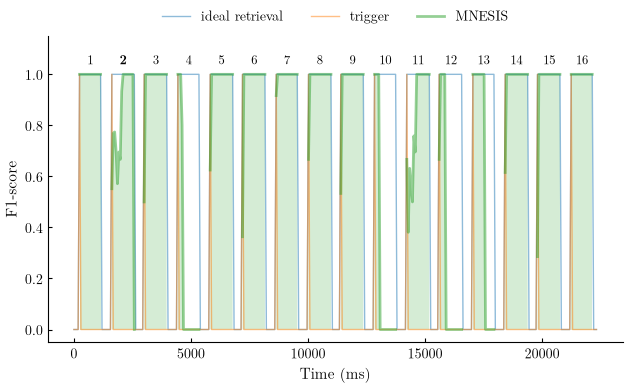
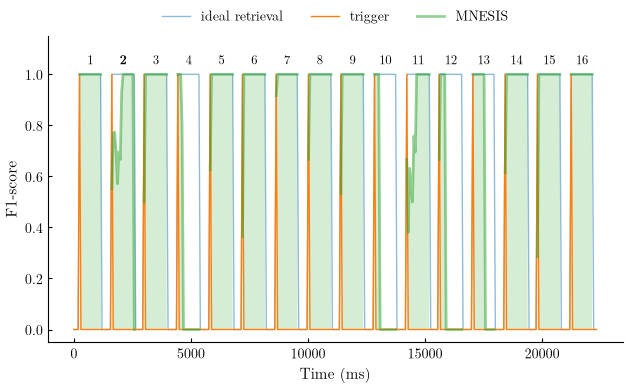
Update retrieval figures, adjust plot opacity, and reorganize LaTeX retriev[7D[K retrieval section
- Replace binary retrieval PDF/PNG and regenerate SVG with updated metadata[8D[K
metadata and new clip‑path/marker IDs.
- In the inference notebook, increase trigger line opacity (`alpha=1.`) and[3D[K
and streamline output: add PNG display of the SVG and remove redundant stre[4D[K
stream output.
- In the manuscript, insert `\input{figure_target}` earlier, add a new “Ret[4D[K
“Retrieval of the different spike patterns” subsection with `\input{figure_[15D[K
`\input{figure_retrieval}`, and incorporate expanded description of trainin[7D[K
training dynamics and cascade‑model analysis.
- Remove the duplicated retrieval subsection later in the file and comment [K
out the now‑redundant gradient‑training commentary.

diff --git a/tex/Perrinet26mnesis.tex b/tex/Perrinet26mnesis.tex
@@ -188,20 +188,33 @@ Our implementation is available at \url{https://github.com/SpikeAI/MNESIS}. The 
 %%%----------------------------------------------------------------- 
 \subsection{Training dynamics and results}
 %%%----------------------------------------------------------------- 
-%
-We trained the recurrent HD-SNN with surrogate-gradient BPTT~\citep{Neftci2019a}, starting from the analytical initialisation, on $M=16$ target patterns with $N=1024$ neurons, $D=41$ delays, $T=1000$ time steps, $p_A=1.6\times10^{-4}$, and $\beta=0.7$ (time constant $\tau \approx 2.8\,\mathrm{ms}$). Without the analytical initialisation, two characteristic failure modes arise during early training: episodes of complete silence, in which the network emits no spikes, and over-activation, in which nearly all neurons fire at every time step. Both are well-known pathological attractors of recurrent SNNs~\citep{Izhikevich2006,Voges10jpp}. The $F_1$ score is the harmonic mean of precision and recall, and maximising it therefore penalises both failure modes symmetrically: low precision corresponds to an over-active network and low recall to a silent one. The cosine learning-rate schedule~\citep{Hammouamri2023} helped guide the network away from these extremes towards a balanced, sparse-firing regime. 
-
-Remarkably, the analytical weight initialisation alone (Eq.~\ref{eq:init}) already achieves high $F_1$ scores before any gradient step, demonstrating that the closed-form Hebbian solution provides a strong baseline for recall on this benchmark. The Gram-matrix approximation $\mathbf{C}^\top\mathbf{C} \approx N \cdot D \cdot p_A \cdot \mathbf{I}$ reduces the pseudo-inverse to a simple cross-correlation (Eq.~\ref{eq:init}), but it does not preserve the accuracy. It assumes that every context contains the same number of spikes, whereas this number fluctuates around $N D p_A \approx 6.7$: with a normalisation by $N D p_A$, the sparsest contexts fall below threshold and the replay dies out ($F_1 \approx 0.12$ for the analytical initialisation), whereas a smaller normalisation makes it explode. The exact pseudo-inverse, whose weights adapt to the number of spikes of each context, is therefore used throughout ($F_1 \approx 0.80$); in the parameter scan, training from the approximation did not recover either ($F_1 \approx 0.001$, against $0.885$ with the pseudo-inverse). Gradient training, in contrast, left the replay unchanged. With the learning rates above, far below the nominal value of $1$ for Adadelta, the weights moved by at most $10^{-3}$ (a relative change of $2 \times 10^{-3}$ of their norm), whereas a perfect context exceeds the threshold by $\delta = 0.25$: not a single evoked spike changed, and the scores of the trained network were identical to those of the analytical initialisation, motif by motif and for each of $8$ realisations of the trigger window and of the spontaneous activity. The scores reported below are therefore those of the analytical solution, and their limits, analysed next, lie in the statistics of the motifs rather than in the optimisation.
-
-The mean $F_1$ score, however, hides a strong heterogeneity between motifs, which we analysed for the analytical initialisation, cued by a noisy realisation of the trigger window ($p_\mathrm{flip} = 0.01$) preceded by $50$ steps of spontaneous activity. Scored motif by motif, $9$ of the $M = 16$ motifs were replayed exactly, without a single false positive or false negative ($F_1 = 1$). This exceeds the value $F_1 \approx 0.990$ of Equation~\ref{eq:f1} for a noisy copy: the replay restores the frozen motif, not the noisy realisation that provided the trigger window. The other motifs failed in one of two ways, which correspond to the two ends of the distribution of the number $K$ of spikes in a context window.
-
-First, four motifs were replayed faithfully up to a given time step, after which their replay stopped (recall from $0.18$ to $0.56$). These are exactly the four motifs that contain a gap of $D$ silent steps ($K = 0$, Section~\ref{sec:task}), and for each of them the last correctly evoked spike immediately precedes the onset of the gap. This failure is structural rather than a defect of the weights: when the readout is fed with the exact history of the motif instead of the network's own spikes, the $F_1$ score of every motif, these four included, lies between $0.99$ and $1$, and these four motifs failed in the same way for each of $8$ realisations of the trigger window and of the spontaneous activity.
-
-Second, four motifs (one of which also contains a gap) showed the opposite failure, an over-active replay (recall $1$ for the three motifs without a gap, precision from $0.46$ to $0.65$). Their false positives were not diffuse: all but $8$ of the $425$ false positives belonged to another stored motif, and the remaining ones to the same motif shifted in time, so that a second memory was replayed with a time shift alongside the correct one. As the readout is linear and the contexts nearly orthogonal, both chains coexist without disrupting each other. With the minimum-norm weights, each of the $K$ spikes that support a target spike carries a weight of about $1/K$, so that a context with few spikes ($K \le 3$ for $11\%$ of the contexts) can be completed by a handful of spurious spikes and ignite the corresponding motif. Such intrusions are seeded before the replay starts, while the network already runs on the spontaneous activity that precedes the trigger window: without this activity, only one intrusion remained. Which motifs suffer an intrusion therefore depends on the realisation. Over the $8$ realisations, the motif whose intrusion is driven by its trigger window alone was affected each time, whereas the other motifs without a gap had a degraded replay in $9$ of $88$ cases (all but one of them over-active), and the mean $F_1$ score ranged from $0.79$ to $0.84$ ($0.96$ when the four motifs with a gap are excluded). The gaps thus set a deterministic ceiling on the mean $F_1$ score, whereas intrusions make it vary from one realisation to the next.
-
 %%%-----------------------------------------------------------------
 \input{figure_target}
 %%%-----------------------------------------------------------------
+%
+We trained the recurrent HD-SNN with surrogate-gradient BPTT~\citep{Neftci2019a}, starting from the analytical initialisation, on $M=16$ target patterns with $N=1024$ neurons, $D=41$ delays, $T=1000$ time steps, $p_A=1.6\times10^{-4}$, and $\beta=0.7$ (time constant $\tau \approx 2.8\,\mathrm{ms}$). Without the analytical initialisation, two characteristic failure modes arise during early training: episodes of complete silence, in which the network emits no spikes, and over-activation, in which nearly all neurons fire at every time step. Both are well-known pathological attractors of recurrent SNNs~\citep{Izhikevich2006,Voges10jpp}. The $F_1$ score is the harmonic mean of precision and recall, and maximising it therefore penalises both failure modes symmetrically: low precision corresponds to an over-active network and low recall to a silent one. The cosine learning-rate schedule~\citep{Hammouamri2023} helped guide the network away from these extremes towards a balanced, sparse-firing regime corresponding to that of the desired patterns. 
+
+Remarkably, the analytical weight initialisation alone (Eq.~\ref{eq:init}) already achieves high $F_1$ scores before any gradient step, demonstrating that the closed-form Hebbian solution provides a strong baseline for recall on this benchmark. The Gram-matrix approximation $\mathbf{C}^\top\mathbf{C} \approx N \cdot D \cdot p_A \cdot \mathbf{I}$ reduces the pseudo-inverse to a simple cross-correlation (Eq.~\ref{eq:init}), but it does not preserve the accuracy. It assumes that every context contains the same number of spikes, whereas this number fluctuates around $N D p_A \approx 6.7$: with a normalisation by $N D p_A$, the sparsest contexts fall below threshold and the replay dies out ($F_1 \approx 0.12$ for the analytical initialisation), whereas a smaller normalisation makes it explode. The exact pseudo-inverse, whose weights adapt to the number of spikes of each context, is therefore used throughout ($F_1 \approx 0.80$); in the parameter scan, training from the approximation did not recover either ($F_1 \approx 0.001$, against $0.885$ with the pseudo-inverse). %Gradient training, in contrast, left the replay unchanged. % With the learning rates above, far below the nominal value of $1$ for Adadelta, the weights moved by at most $10^{-3}$ (a relative change of $2 \times 10^{-3}$ of their norm), whereas a perfect context exceeds the threshold by $\delta = 0.25$: not a single evoked spike changed, and the scores of the trained network were identical to those of the analytical initialisation, motif by motif and for each of $8$ realisations of the trigger window and of the spontaneous activity. The scores reported below are therefore those of the analytical solution, and their limits, analysed next, lie in the statistics of the motifs rather than in the optimisation.
+
+Computing the mean $F_1$ score, however, hides a strong heterogeneity between motifs, which we analysed for the predicted spike trains produced by the network cued by a noisy realisation of the trigger window ($p_\mathrm{flip} = 0.01$) and preceded by $50$ steps of spontaneous activity. Scored motif by motif, $9$ of the $M = 16$ motifs were replayed exactly, without a single false positive or false negative ($F_1 = 1$). This exceeds the value $F_1 \approx 0.990$ of Equation~\ref{eq:f1} for a noisy copy: the replay restores the frozen motif, not the noisy realisation that provided the trigger window. The other motifs failed in one of two ways, which correspond to the two ends of the distribution of the number $K$ of spikes in a context window.
+
+First, four motifs were replayed faithfully up to a given time step, after which their replay stopped (recall from $0.18$ to $0.56$). These are exactly the four motifs that contain a gap of $D$ silent steps ($K = 0$, Section~\ref{sec:task}), and for each of them the last correctly evoked spike immediately precedes the onset of the gap. This failure is structural rather than a defect of the weights: when the readout is fed with the exact history of the motif instead of the network's own spikes, the $F_1$ score of every motif, these four included, lies between $0.99$ and $1$, and these four motifs failed in the same way for each of $8$ realisations of the trigger window and of the spontaneous activity.
+
+Second, four motifs (one of which also contains a gap) showed the opposite failure, an over-active replay (recall $1$ for the three motifs without a gap, precision from $0.46$ to $0.65$). Their false positives were not diffuse: all but $8$ of the $425$ false positives belonged to another stored motif, and the remaining ones to the same motif shifted in time, so that a second memory was replayed with a time shift alongside the correct one. As the readout is linear and the contexts nearly orthogonal, both chains should coexist without disrupting each other. With the minimum-norm weights, each of the $K$ spikes that support a target spike carries a weight of about $1/K$, so that a context with few spikes ($K \le 3$ for $11\%$ of the contexts) can be completed by a handful of spurious spikes and ignite the corresponding motif. Such intrusions are seeded before the replay starts, while the network already runs on the spontaneous activity that precedes the trigger window: without this activity, only one intrusion remained. Which motifs suffer an intrusion therefore depends on the realisation. Over the $8$ realisations, the motif whose intrusion is driven by its trigger window alone was affected each time, whereas the other motifs without a gap had a degraded replay in $9$ of $88$ cases (all but one of them over-active), and the mean $F_1$ score ranged from $0.79$ to $0.84$ ($0.96$ when the four motifs with a gap are excluded). The gaps thus set a deterministic ceiling on the mean $F_1$ score, whereas intrusions make it vary from one realisation to the next.
+
+%%%-----------------------------------------------------------------
+\subsection{Retrieval of the different spike patterns}
+%%%-----------------------------------------------------------------
+%  this section reflects what is computed in 13_MNESIS_testing-inference.ipynb
+%%%-----------------------------------------------------------------
+\input{figure_retrieval}
+%%%-----------------------------------------------------------------
+
+Training was not uniform in time: the network first reproduced spikes immediately following the trigger window ($0 \leq t < D$), then progressively extended correct recall towards later time steps, as shown in Figure~\ref{fig:target}. This behaviour is a direct consequence of the sequential structure of the task: because each context window $[t-D,\, t-1]$ uniquely predicts the activity at time $t$, errors at early time steps propagate into all subsequent predictions, making temporal proximity to the trigger window the primary driver of learning progress.
+
+To evaluate the network's ability to retrieve and distinguish multiple stored motifs in sequence, we concatenated all $M=16$ motifs into a single long raster, each trial flanked on both sides by $200$ silent steps, without spontaneous activity, so as to isolate trigger-driven retrieval (Figure~\ref{fig:retrieval}). Each motif was triggered by its individual trigger window, and retrieval was evaluated by the $F_1$ score in consecutive $60$-step windows, against the frozen motifs. For $12$ of the $16$ motifs, the $F_1$ score rose sharply at the onset of the trigger window and remained close to $1$ until the end of the motif (mean $F_1 \approx 0.96$ over these motifs): a single trigger window then suffices to select and replay the corresponding stored motif. For the four remaining motifs, the replay started correctly but broke down after about $200$ to $600$ steps, and the $F_1$ score then stayed at $0$ until the end of the motif, which brings the mean $F_1$ score over the $M=16$ motifs to $0.80$. This abrupt and irreversible failure is consistent with the chained structure of the replay: each spike is predicted from the preceding context window, so that once the activity deviates from the stored motif, the following context windows no longer correspond to it and the replay cannot recover (compare with the progressive extension of correct recall during training, Figure~\ref{fig:target}).
+
+These failures are predicted, with no fitted parameter, by the cascade model of Section~\ref{sec:robustness}. A spike of a motif is evoked only if the $D$ preceding steps of that motif hold at least one of its spikes ($K \geq 1$), so that a gap of $D$ silent steps stops the replay, whatever the trigger window. For random motifs of the same statistics, such a gap occurs with probability $\approx 0.17$ (estimated on $1000$ motifs), that is, in $2.8$ of $16$ motifs on average, and $82\%$ of the motifs are replayed to their end. Simulated step by step on the $16$ stored motifs, the cascade model predicts that exactly the 4th, 10th, 12th and 13th motifs stop, at the onset of their first gap, $233$, $258$, $268$ and $568$ steps after the onset of the motif, consistent within the $60$-step resolution of the windows with the breakdowns of Figure~\ref{fig:retrieval}, whose last window with $F_1 \geq 0.5$ ends at $280$, $280$, $300$ and $580$ steps. When the motifs are cued as in Figure~\ref{fig:target}, it also predicts the recall of each motif, $0.175$, $0.221$, $0.294$ and $0.564$ for these four motifs and $1$ for the twelve others, equal to the measured values to three decimals, hence the pooled recall $r_0 = 0.825$ of the network. The model does not predict the precision ($0.835$), which is lowered by the over-active replays of four motifs described above: they arise from the crosstalk between stored motifs, which the mean-field model leaves out.
 
 %%%-----------------------------------------------------------------
 \subsection{Effect of hyperparameters}
@@ -226,20 +239,6 @@ The membrane decay, sampled uniformly in $[0, 1]$ (as an initial value when $\be
 
 \paragraph{Surrogate sharpness $\alpha$.}
 Within the explored range ($\alpha$ from $1.4$ to $8.1$ in the sampled trials), the sharpness of the fast-sigmoid surrogate had a negligible importance ($0.002$). Among the Adadelta trials, the median loss stayed between $0.25$ and $0.33$ and the best loss between $0.09$ and $0.11$ for $\alpha$ from $1.4$ to $5$, and the best $10\%$ of trials spread over $\alpha \in [1.5, 3.1]$ (median $1.9$). Learning is thus robust to the choice of $\alpha$ in this range, which includes the default value $\alpha = 5$; larger values were sampled too rarely ($5$ trials) to be conclusive.
-
-%%%-----------------------------------------------------------------
-\subsection{Retrieval of multiple spike patterns}
-%%%-----------------------------------------------------------------
-%  this section reflects what is computed in 13_MNESIS_testing-inference.ipynb
-%%%-----------------------------------------------------------------
-\input{figure_retrieval}
-%%%-----------------------------------------------------------------
-
-Training was not uniform in time: the network first reproduced spikes immediately following the trigger window ($0 \leq t < D$), then progressively extended correct recall towards later time steps, as shown in Figure~\ref{fig:target}. This behaviour is a direct consequence of the sequential structure of the task: because each context window $[t-D,\, t-1]$ uniquely predicts the activity at time $t$, errors at early time steps propagate into all subsequent predictions, making temporal proximity to the trigger window the primary driver of learning progress.
-
-To evaluate the network's ability to retrieve and distinguish multiple stored motifs in sequence, we concatenated all $M=16$ motifs into a single long raster, each trial flanked on both sides by $200$ silent steps, without spontaneous activity, so as to isolate trigger-driven retrieval (Figure~\ref{fig:retrieval}). Each motif was triggered by its individual trigger window, and retrieval was evaluated by the $F_1$ score in consecutive $60$-step windows, against the frozen motifs. For $12$ of the $16$ motifs, the $F_1$ score rose sharply at the onset of the trigger window and remained close to $1$ until the end of the motif (mean $F_1 \approx 0.96$ over these motifs): a single trigger window then suffices to select and replay the corresponding stored motif. For the four remaining motifs, the replay started correctly but broke down after about $200$ to $600$ steps, and the $F_1$ score then stayed at $0$ until the end of the motif, which brings the mean $F_1$ score over the $M=16$ motifs to $0.80$. This abrupt and irreversible failure is consistent with the chained structure of the replay: each spike is predicted from the preceding context window, so that once the activity deviates from the stored motif, the following context windows no longer correspond to it and the replay cannot recover (compare with the progressive extension of correct recall during training, Figure~\ref{fig:target}).
-
-These failures are predicted, with no fitted parameter, by the cascade model of Section~\ref{sec:robustness}. A spike of a motif is evoked only if the $D$ preceding steps of that motif hold at least one of its spikes ($K \geq 1$), so that a gap of $D$ silent steps stops the replay, whatever the trigger window. For random motifs of the same statistics, such a gap occurs with probability $\approx 0.17$ (estimated on $1000$ motifs), that is, in $2.8$ of $16$ motifs on average, and $82\%$ of the motifs are replayed to their end. Simulated step by step on the $16$ stored motifs, the cascade model predicts that exactly the 4th, 10th, 12th and 13th motifs stop, at the onset of their first gap, $233$, $258$, $268$ and $568$ steps after the onset of the motif, consistent within the $60$-step resolution of the windows with the breakdowns of Figure~\ref{fig:retrieval}, whose last window with $F_1 \geq 0.5$ ends at $280$, $280$, $300$ and $580$ steps. When the motifs are cued as in Figure~\ref{fig:target}, it also predicts the recall of each motif, $0.175$, $0.221$, $0.294$ and $0.564$ for these four motifs and $1$ for the twelve others, equal to the measured values to three decimals, hence the pooled recall $r_0 = 0.825$ of the network. The model does not predict the precision ($0.835$), which is lowered by the over-active replays of four motifs described above: they arise from the crosstalk between stored motifs, which the mean-field model leaves out.
 
 %%%-----------------------------------------------------------------
 \subsection{Working memory and robustness to perturbations}
